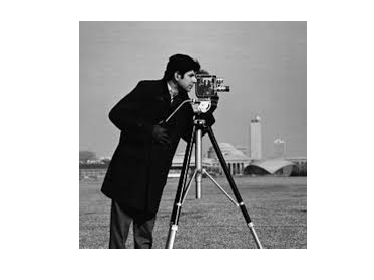
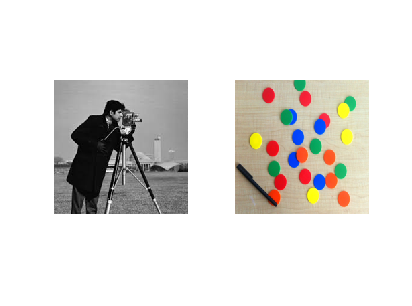
DIP lab programs were added

diff --git a/DIP/program2.m b/DIP/program2.m
@@ -1,4 +1,4 @@
-rgb = imread("rgb.png");
+rgb = imread("coloredChips.png");
 r = rgb;
 g = rgb;
 b = rgb;
@@ -9,10 +9,10 @@ g(:,:,3) = 0;
 b(:,:,1) = 0;
 b(:,:,2) = 0;
 subplot(2,2,1);
-imshow(rgb) ,title('rgb');
+imshow(rgb) ,title('rgb image');
 subplot(2,2,2);
-imshow(r) ,title('red');
+imshow(r) ,title('red component');
 subplot(2,2,3);
-imshow(g) ,title('green');
+imshow(g) ,title('green component');
 subplot(2,2,4);
-imshow(b) ,title('blue');
+imshow(b) ,title('blue component');

diff --git a/DIP/program3.m b/DIP/program3.m
@@ -11,11 +11,11 @@ imshow(c) , title("chips");
 subplot(3,2,2);
 imshow(d) , title("fabric");
 subplot(3,2,3);
-imshow(e) , title("add");
+imshow(e) , title("additon");
 subplot(3,2,4);
-imshow(f) , title("sub");
+imshow(f) , title("substraction");
 
 subplot(3,2,5);
-imshow(g) , title("mul");
+imshow(g) , title("multiplication");
 subplot(3,2,6);
-imshow(h) , title("div");
+imshow(h) , title("division");

diff --git a/DIP/program4.m b/DIP/program4.m
@@ -1,0 +1,15 @@
+clc;
+close all;
+I = imread("coloredChips.png");
+I = rgb2gray(I);
+[m n] = size(I);
+for q = 1:n
+    for p = 1:m
+        I2(p , q) = 225 - I(p,q);
+    end
+end
+I1 = imread("coloredChips.png");
+subplot(2,1,1);
+imshow(I1),title('original');
+subplot(2,1,2);
+imshow(I2),title('negative');

diff --git a/DIP/program5.m b/DIP/program5.m
@@ -1,0 +1,12 @@
+f = imread("coloredChips.png");
+i = imtranslate(f,[15,25]);
+j = imrotate(f,30);
+k = imresize(f,0.5);
+subplot(1,3,1);
+imshow(i),title('translation');
+subplot(1,3,2);
+imshow(j),title('Rotation');
+subplot(1,3,3);
+imshow(k),title('Scaling');
+size(k)
+size(i)

diff --git a/DIP/program1.m b/DIP/program1.m
@@ -1,3 +1,6 @@
-a = imread("cameraman.png");
+a = imread("cameraman.jpeg");
+a = imresize(a,[200,200]);
 imshow(a);
-size(a)
+b = imread("coloredChips.png");
+subplot(1,2,2);
+imshow(b);
